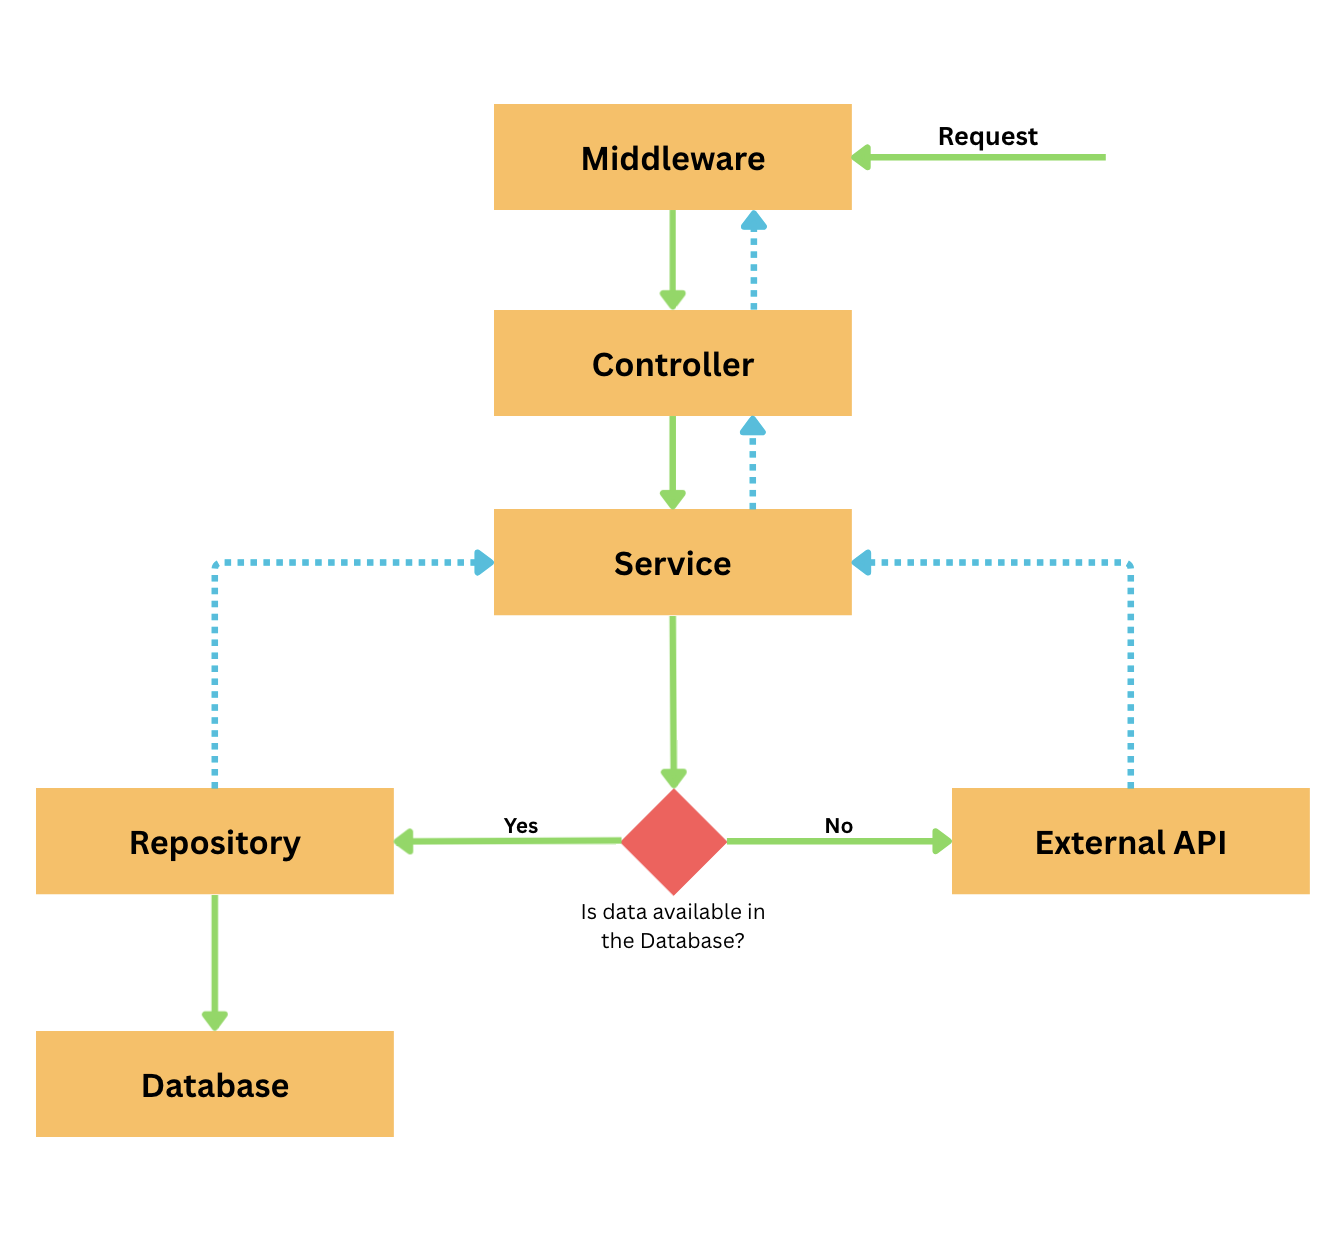
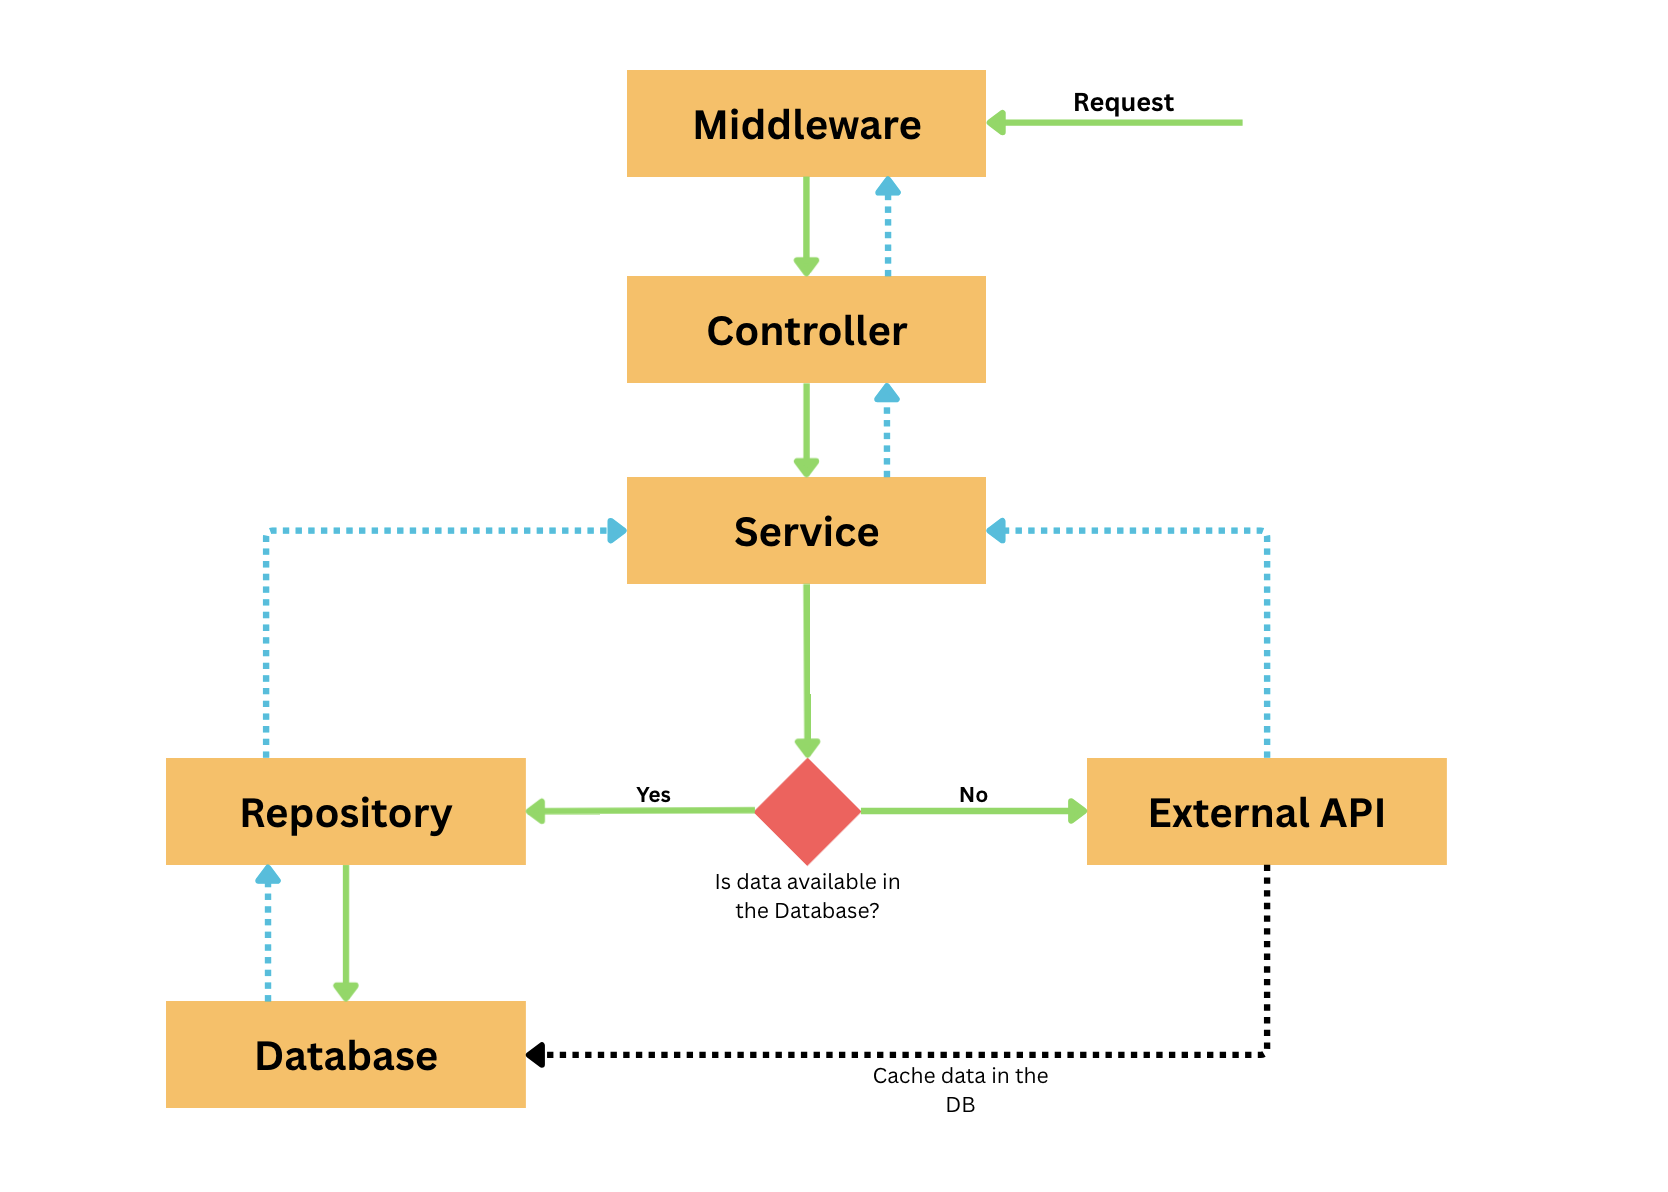
doc: Improve readme file

Changed region(s): [[0.0, 0.031, 1.0, 0.9312]]

diff --git a/README.md b/README.md
@@ -9,6 +9,17 @@
   `dotnet new gitignore`
 - Add SQL package
   `dotnet add package Microsoft.Data.SqlClient`
+- Add Tests project
+  `dotnet new xunit -0 liquidlabs-assignment.Tests`
+- Add Moq package (for tests)
+  `dotnet add package Moq`
+- Add FluentAssertions package (for tests)
+  `dotnet add package FluentAssertions`
+
+## Public API
+
+- Im using RestCountries API from https://restcountries.com/
+- The dataset covers 90+ normalized fields per country
 
 ## Project Structure/Architecture:
 
@@ -19,14 +30,77 @@
   4. Repository
   5. Database
 
+- Please refer the below diagram
+
 ![alt text](architecture-diagram.png)
 
-## Public API
+- When the request comes, it first go through the Error Handling Middleware
+- Then the controller takes over, handles the http request and pass the request to the service layer.
+- Service layer includes the business logic. It check if there is a local cache or not by trying to retrieve the data from the the database, through the repository layer. (Service -> Repository -> Database)
+- If there is data, it send that retrieved data to the client.
+- If there is no data, it call the external api endpoint to retrieve data, and then save it to the database, and then share it with the client.
 
-- Im using RestCountries API from https://restcountries.com/
-- The dataset covers 90+ normalized fields per country
+## Caching Logic
 
-## Tasks Breakdown
+### Get By Country Name
 
-- Initialize the External API
--
+- Initially database it empty, or not available the country that is searching.
+- So it has the retrieve the data from the external API
+- Then it save that record to the database. When it does it use sync_level as 1. This is important to validate the cache.
+- If there is another request come asking for same country, now it can extract it from the db. (a record that match the country name without considering the sync_level. Because any sync_level works fine for this type of request)
+
+### Get By Continent Name
+
+- Here it could be few scenarios
+  1. Scenario 1: Database it empty
+  2. Scenario 2: Database doesn't has any records with that continent
+  3. Scenario 3: Database has one or more records with that continent, but sync_level = 1.
+  4. Scenario 4: Database has all the records with for continent, and sync_level = 2 or sync_level = 3.
+
+- In Scenario 1, Scenario 2: we retrieve the data from the API and save it in the database as sync_level = 2.
+- In Scenario 3: Here we have few records for that continent, but those are records saved when call GetByCountry method. We cannot grantee these records are the all the records for this continent. There could be some other countries that are not in the database. So we retrieve the data from the API, delete all the records with that continent and sync_level = 1. Only after that, we save the extracted data to the database. This delete step is important. Because there could be records with sync_level = 1 for that continent. (Eg: when search ac country by name) We cant add our new record while these records still in the database, due to duplicate records.
+- In Scenario 4: Unlike in scenario 3, we can grantee that available records are the all the records for that continent. So we don't call the API. Simply return the data from the DB.
+
+### Get All
+
+- Here it could be few scenarios
+  1. Scenario 1: Database it empty
+  2. Scenario 2: Database has one or more records, but sync_level = 1 or sync_level = 2.
+  3. Scenario 3: Database has all the records, and sync_level = 3.
+
+- In Scenario 1: we retrieve the data from the API and save it in the database as sync_level = 3.
+- In Scenario 2: Similar to the Scenario 3 in GetByContinentName. So we retrieve the data from the API and delete all the records available. Only after that, we save the extracted data to the database.
+- In Scenario 3: Unlike in scenario 2, we can grantee that available records are the all the records needed. So we don't call the API. Simply return the data from the DB.
+
+## Setting up the Project
+
+### Clone the project
+
+- Clone the repository: `git clone https://github.com/sithira-ps/liquidlabs-assignment.git`
+
+### Setting up the Public API
+
+- Go to https://restcountries.com/sign-up
+- Create a new account by adding the email and other necessary details
+- Confirm the email by clicking the link that has sent to your email (this email might be in the spam folder)
+- Once confirmed, you will navigate to the Welcome page, which has mentioned your API key.
+- Copy that API key and paste it in the appsettings.json file -> ExternalApi -> ApiKey section
+
+### Setting up the Database
+
+- Create a new SQL Server database and paste its connection string in the appsettings.json file -> ConnectionStrings -> DefaultConnection (or fill the placeholders in the dummy connection string available there)
+- Run the sql-schema.sql file in that database, to create the necessary table.
+
+### Run the project
+
+- Run the project:
+  - Go the the main project : `cd liquidlabs-assignment`
+  - Run the project using: `dotnet run`
+- Run tests of this project:
+  - Go the the test project : `cd liquidlabs-assignment.Tests`
+  - Run the project using: `dotnet test`
+
+- Open Swagger: http://localhost:5011/swagger/
+- Get all countries: http://localhost:5011/api/v1/Countries
+- Get all countries by continent: http://localhost:5011/api/v1/countries/continent/{continent}
+- Get all countries by name: http://localhost:5011/api/v1/countries/{name}
